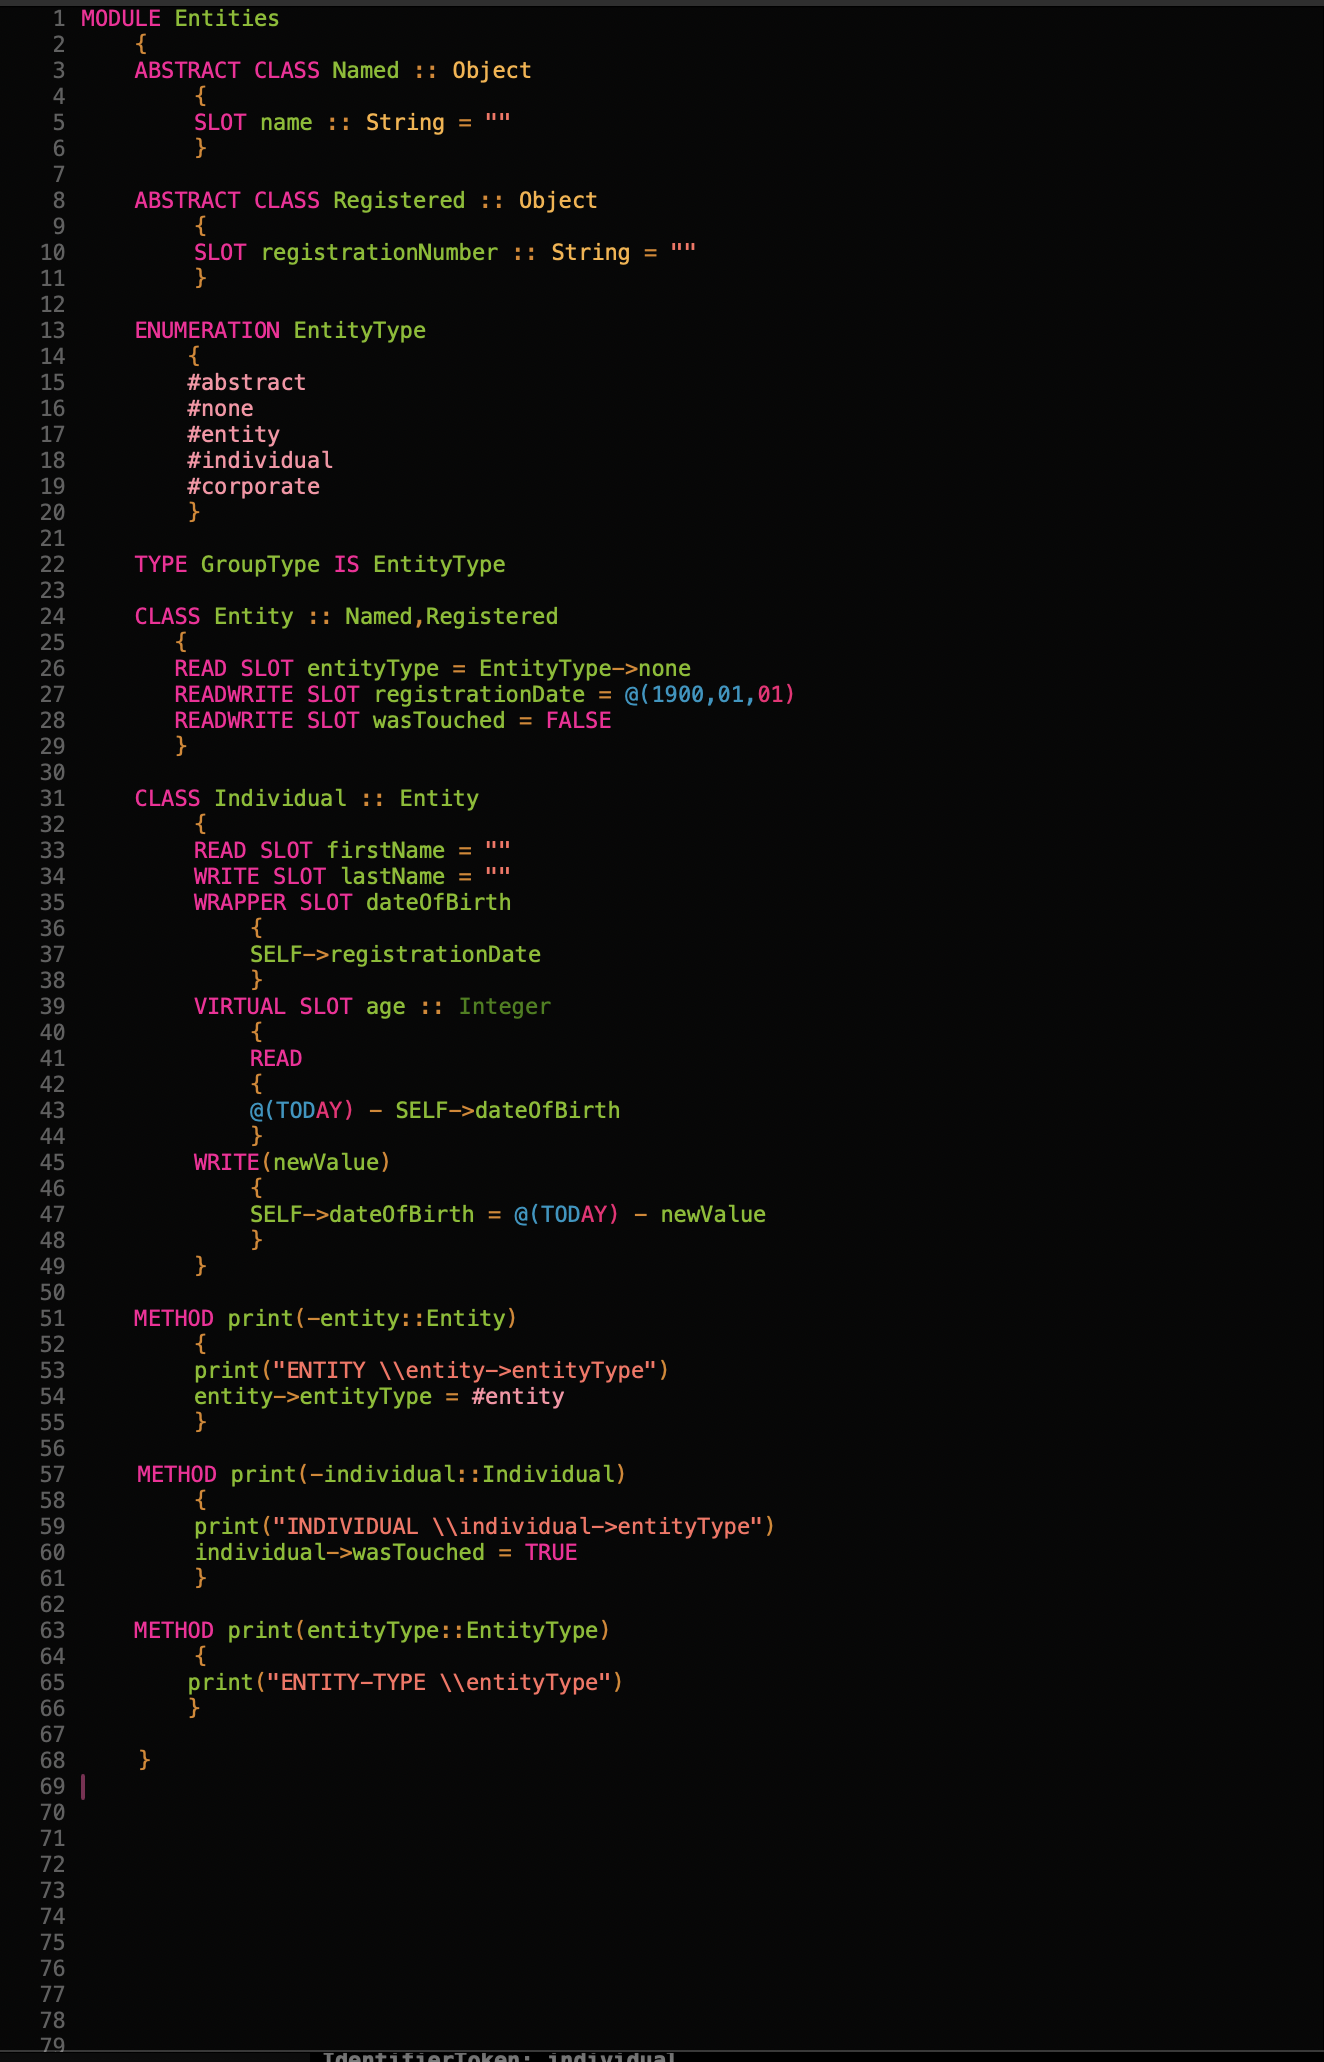
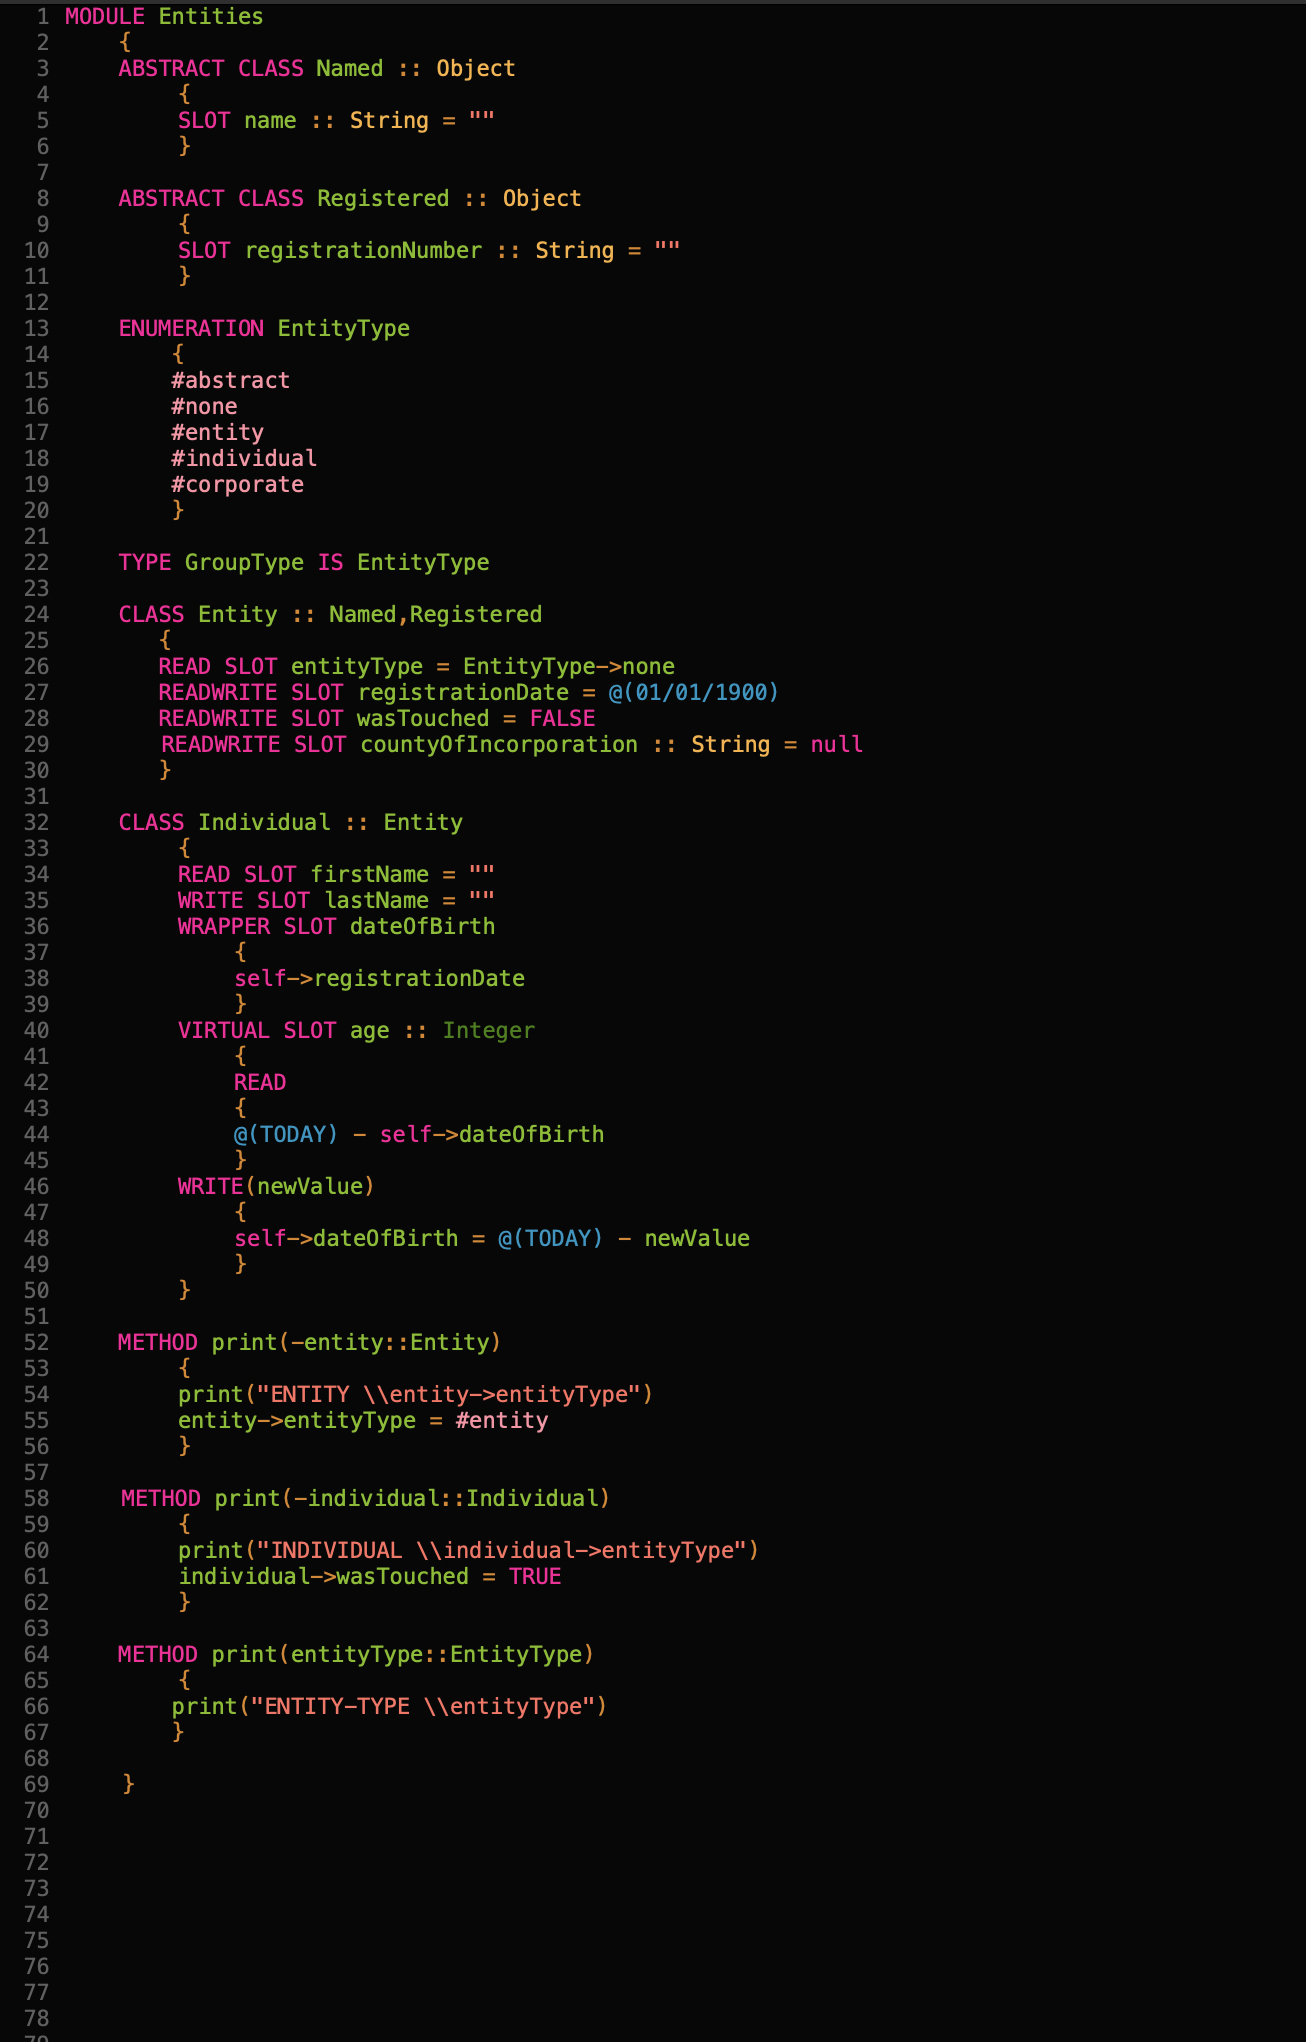
Updated sample module image.

diff --git a/Argon/Lexical Analysis/KeywordToken.swift b/Argon/Lexical Analysis/KeywordToken.swift
@@ -9,8 +9,8 @@ import Foundation
 
 fileprivate let _Keywords = ["ABSTRACT","CLASS","CONSTANT","DEFORM","DYNAMIC","ELSE","ENTRY","ENUMERATION","EXIT",
                             "FALSE","FOR","FROM","FREE","FORM","FUNCTION","IF","IN","HANDLE","IMPORT",
-                            "IS","KEY","LET","LOOP","MAKE","METHOD","MODULE","OTHERWISE","POOL","READ","READWRITE","REPEAT",
-                            "RETURN","SECTION","SELECT","SLOT","SIGNAL","THEN","TIMES","TRUE","TYPE","USES",
+                            "IS","KEY","LET","LOOP","MAKE","METHOD","MODULE","null","OTHERWISE","POOL","READ","READWRITE","REPEAT",
+                            "RETURN","SECTION","SELECT","self","SLOT","SIGNAL","super","THEN","TIMES","TRUE","TYPE","USES",
                             "VIRTUAL","WHEN","WHILE","WITH","WRAPPER","WRITE"]
                             
 public class KeywordToken: Token
@@ -186,6 +186,8 @@ public class KeywordToken: Token
                 return(.METHOD)
             case "MODULE":
                 return(.MODULE)
+            case "null":
+                return(.null)
             case "OTHERWISE":
                 return(.OTHERWISE)
             case "POOL":
@@ -202,10 +204,14 @@ public class KeywordToken: Token
                 return(.SELECT)
             case "SECTION":
                 return(.SECTION)
+            case "self":
+                return(.self)
             case "SLOT":
                 return(.SLOT)
             case "SIGNAL":
                 return(.SIGNAL)
+            case "super":
+                return(.super)
             case "THEN":
                 return(.THEN)
             case "TIMES":

diff --git a/Argon/Compilation and Parsing/ArgonScanner.swift b/Argon/Compilation and Parsing/ArgonScanner.swift
@@ -226,7 +226,7 @@ public class ArgonScanner
             {
             self.nextCharacter()
             }
-        return([CalendricalToken(location: Location(nodeKey: 0, line: self.sourceLine, start: self.startOffset, stop: self.startOffset + string.count),string: string)])
+        return([CalendricalToken(location: Location(nodeKey: 0, line: self.sourceLine, start: self.startOffset, stop: self.startOffset + string.count + 3),string: string)])
         }
         
     private func scanBracket() -> Tokens

diff --git a/Argon/Lexical Analysis/Token.swift b/Argon/Lexical Analysis/Token.swift
@@ -118,6 +118,7 @@ public enum TokenType: Int
     case none
     case notAssign
     case notEquals
+    case null
     
     case `operator`
     case OTHERWISE
@@ -142,6 +143,7 @@ public enum TokenType: Int
     case RETURN
     
     case SELECT
+    case `self`
     case SECTION
     case separator
     case semicolon
@@ -155,6 +157,7 @@ public enum TokenType: Int
     case shiftLeftAssign
     case shiftRightAssign
     case STATIC
+    case `super`
     
     case text
     case ternary
